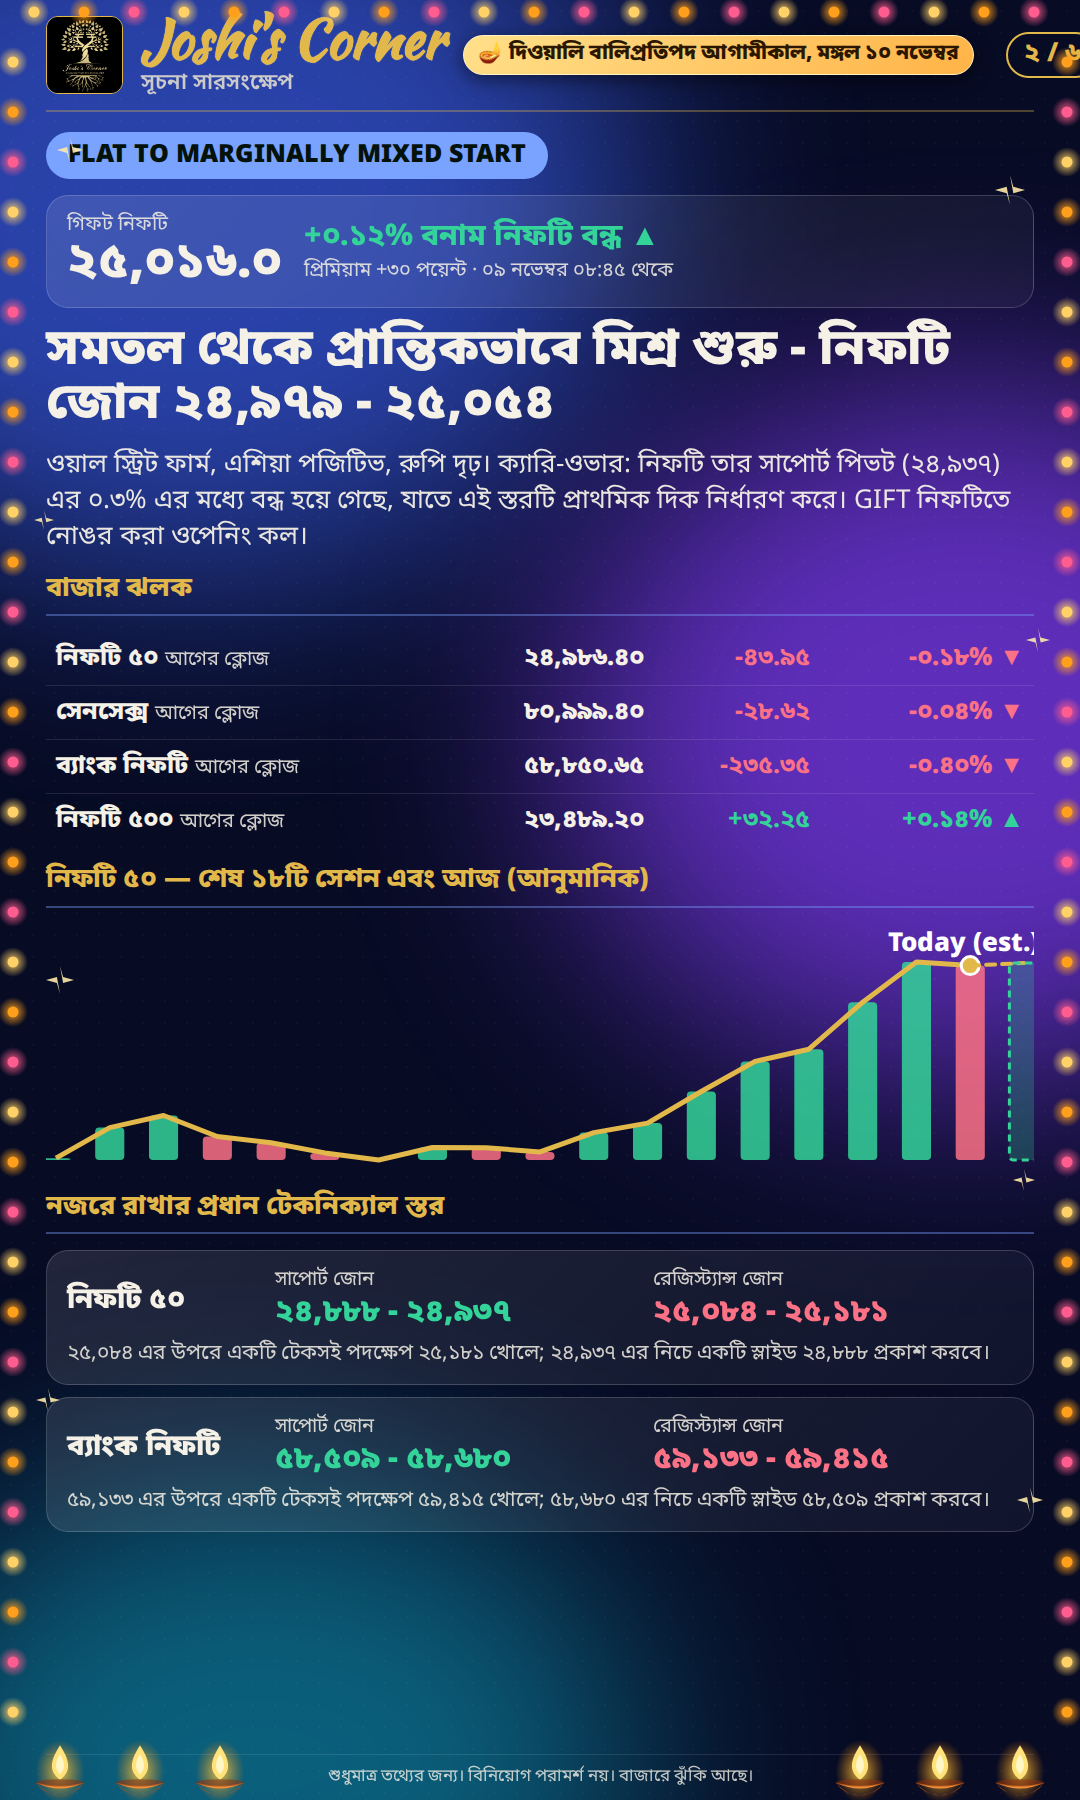
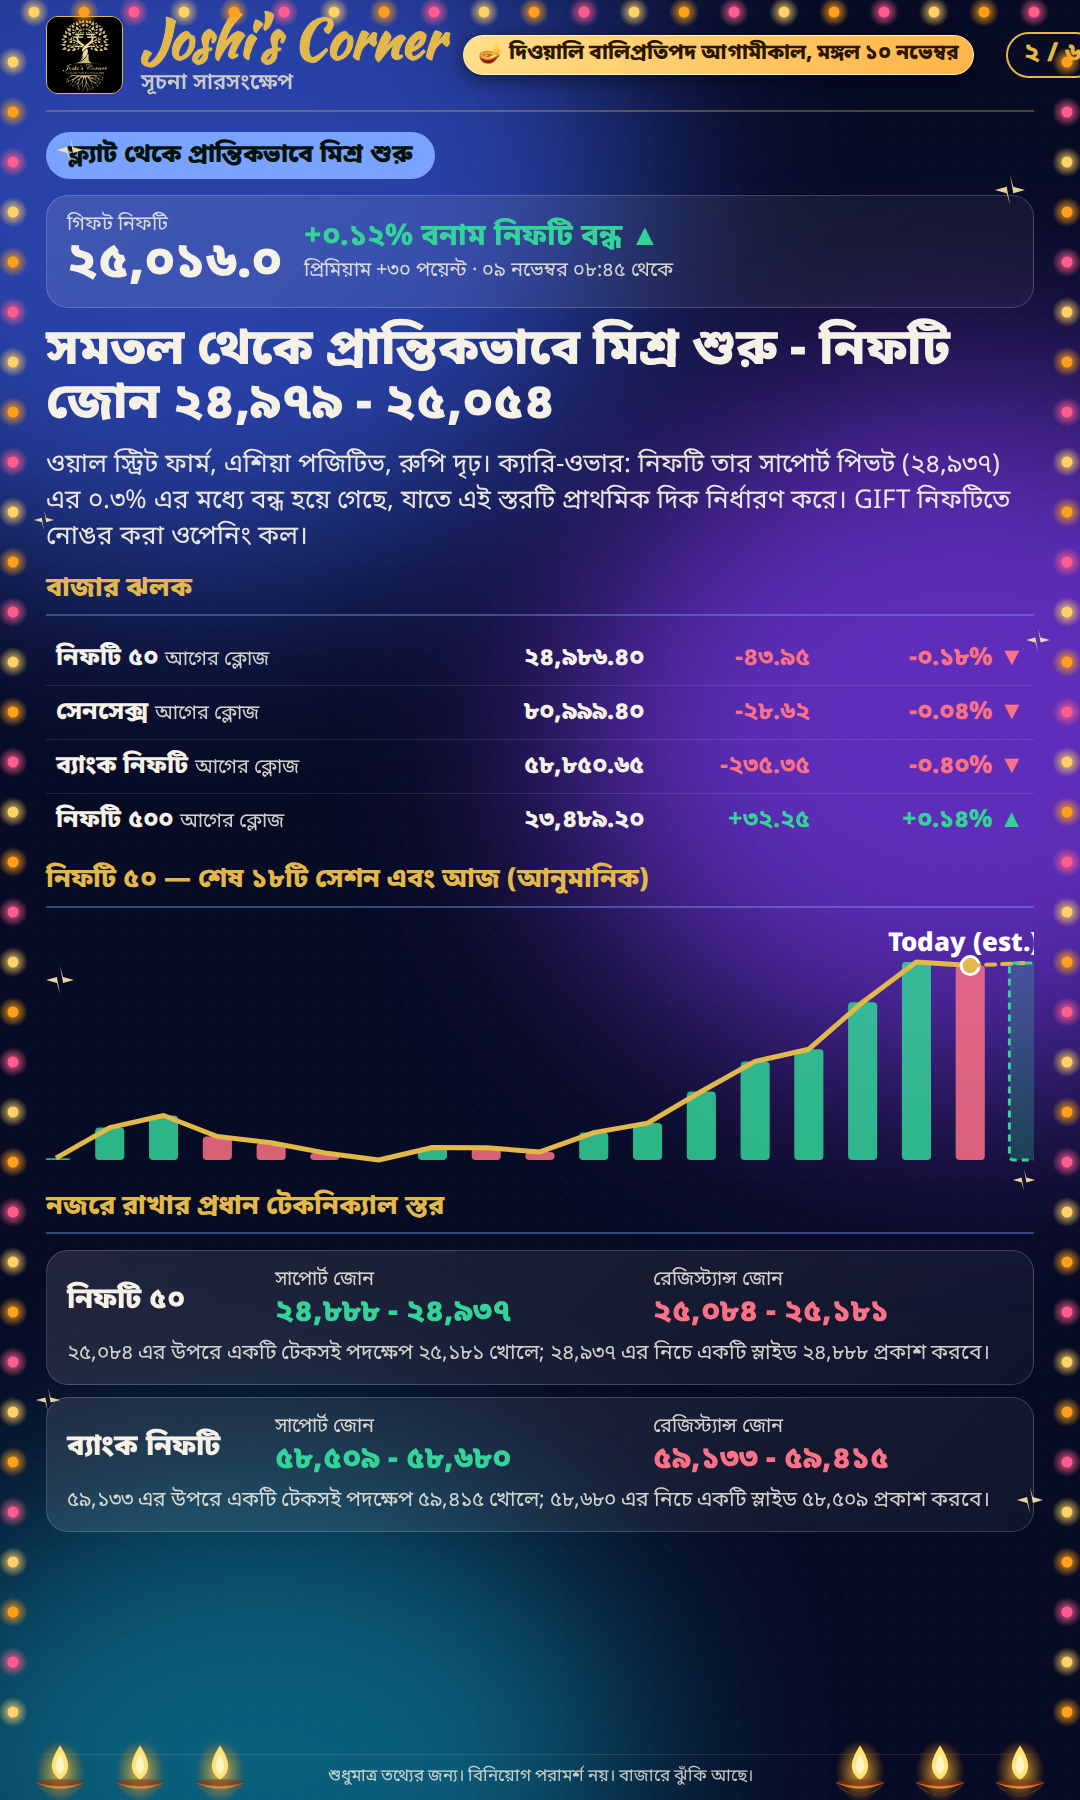
backfill: Hindi/Bengali editions

Changed region(s): [[0.0611, 0.0622, 0.5194, 0.1244]]

diff --git a/morning/2026-11-09/index.html b/morning/2026-11-09/index.html
@@ -41,7 +41,7 @@ html,body{height:100%;background:radial-gradient(120% 90% at 50% 0%,#2a2140 0%,#
 <div class="top"><span class="b">Joshi's Corner</span><span class="lg"><button data-l="en">English</button><button data-l="hi">हिन्दी</button><button data-l="bn">বাংলা</button></span></div>
 <div class="stage"><div class="book" id="book"><div class="spine"></div><div class="leaf"><img src="../../reports/morning-pulse/JCGG_Morning_Pulse_Mobile_2026-11-09_1.png" alt="Page 1" loading="eager"><div class="back"></div><div class="shade"></div></div><div class="leaf"><img src="../../reports/morning-pulse/JCGG_Morning_Pulse_Mobile_2026-11-09_2.png" alt="Page 2" loading="eager"><div class="back"></div><div class="shade"></div></div><div class="leaf"><img src="../../reports/morning-pulse/JCGG_Morning_Pulse_Mobile_2026-11-09_3.png" alt="Page 3" loading="eager"><div class="back"></div><div class="shade"></div></div><div class="leaf"><img src="../../reports/morning-pulse/JCGG_Morning_Pulse_Mobile_2026-11-09_4.png" alt="Page 4" loading="eager"><div class="back"></div><div class="shade"></div></div><div class="leaf"><img src="../../reports/morning-pulse/JCGG_Morning_Pulse_Mobile_2026-11-09_5.png" alt="Page 5" loading="eager"><div class="back"></div><div class="shade"></div></div><div class="leaf"><img src="../../reports/morning-pulse/JCGG_Morning_Pulse_Mobile_2026-11-09_6.png" alt="Page 6" loading="eager"><div class="back"></div><div class="shade"></div></div></div></div>
 <div class="hint" id="hint">Tap the page to turn it</div>
-<div class="stat"><div class="old" id="old"></div><span id="gen">Report generated <b>Mon 09 Nov 2026, 08:57 AM IST</b></span></div>
+<div class="stat"><div class="old" id="old"></div><span id="gen">Report generated <b>Mon 09 Nov 2026, 09:13 AM IST</b></span></div>
 <div class="bar"><button class="g" id="prev" aria-label="Previous page">&#8249;</button><div class="dots" id="dots"></div><button id="next" aria-label="Next page">Next page &#8250;</button><button class="g" id="share">Share</button></div>
 <script>(function(){
 var LP={"en": ["../../reports/morning-pulse/JCGG_Morning_Pulse_Mobile_2026-11-09_1.png", "../../reports/morning-pulse/JCGG_Morning_Pulse_Mobile_2026-11-09_2.png", "../../reports/morning-pulse/JCGG_Morning_Pulse_Mobile_2026-11-09_3.png", "../../reports/morning-pulse/JCGG_Morning_Pulse_Mobile_2026-11-09_4.png", "../../reports/morning-pulse/JCGG_Morning_Pulse_Mobile_2026-11-09_5.png", "../../reports/morning-pulse/JCGG_Morning_Pulse_Mobile_2026-11-09_6.png"], "hi": ["../../reports/morning-pulse/JCGG_Morning_Pulse_Mobile_HI_2026-11-09_1.png", "../../reports/morning-pulse/JCGG_Morning_Pulse_Mobile_HI_2026-11-09_2.png", "../../reports/morning-pulse/JCGG_Morning_Pulse_Mobile_HI_2026-11-09_3.png", "../../reports/morning-pulse/JCGG_Morning_Pulse_Mobile_HI_2026-11-09_4.png", "../../reports/morning-pulse/JCGG_Morning_Pulse_Mobile_HI_2026-11-09_5.png", "../../reports/morning-pulse/JCGG_Morning_Pulse_Mobile_HI_2026-11-09_6.png"], "bn": ["../../reports/morning-pulse/JCGG_Morning_Pulse_Mobile_BN_2026-11-09_1.png", "../../reports/morning-pulse/JCGG_Morning_Pulse_Mobile_BN_2026-11-09_2.png", "../../reports/morning-pulse/JCGG_Morning_Pulse_Mobile_BN_2026-11-09_3.png", "../../reports/morning-pulse/JCGG_Morning_Pulse_Mobile_BN_2026-11-09_4.png", "../../reports/morning-pulse/JCGG_Morning_Pulse_Mobile_BN_2026-11-09_5.png", "../../reports/morning-pulse/JCGG_Morning_Pulse_Mobile_BN_2026-11-09_6.png"]},DEF=document.documentElement.lang||'en',cur='en';
@@ -82,7 +82,7 @@ document.addEventListener('keydown',function(e){if(e.key==='ArrowRight'||e.key==
 var sx=null;document.addEventListener('touchstart',function(e){sx=e.touches[0].clientX},{passive:true});
 document.addEventListener('touchend',function(e){if(sx===null)return;var dx=e.changedTouches[0].clientX-sx;if(Math.abs(dx)>45)go(dx<0?1:-1);sx=null},{passive:true});
 document.getElementById('share').onclick=function(){var d={title:"Joshi's Corner - Morning Sunrise for Monday, 09 November 2026",text:"Joshi's Corner - Morning Sunrise for Monday, 09 November 2026",url:location.href};if(navigator.share){navigator.share(d).catch(function(){})}else if(navigator.clipboard){navigator.clipboard.writeText(location.href);this.textContent='Link copied'}};
-(function(){var RD='2026-11-09',KIND='morning',ADM='',GEN='Mon 09 Nov 2026, 08:57 AM IST';
+(function(){var RD='2026-11-09',KIND='morning',ADM='',GEN='Mon 09 Nov 2026, 09:13 AM IST';
  var n=new Date(Date.now()+19800000),mm=n.getUTCHours()*60+n.getUTCMinutes(),dow=n.getUTCDay(),due=KIND==='evening'?16*60+40:8*60+55;
  function iso(d){return d.toISOString().slice(0,10)}
  var e=new Date(n.getTime());if(dow>=1&&dow<=5&&mm>=due){}else{do{e=new Date(e.getTime()-86400000)}while(e.getUTCDay()===0||e.getUTCDay()===6)}

diff --git a/morning/index.html b/morning/index.html
@@ -41,7 +41,7 @@ html,body{height:100%;background:radial-gradient(120% 90% at 50% 0%,#2a2140 0%,#
 <div class="top"><span class="b">Joshi's Corner</span><span class="lg"><button data-l="en">English</button><button data-l="hi">हिन्दी</button><button data-l="bn">বাংলা</button></span></div>
 <div class="stage"><div class="book" id="book"><div class="spine"></div><div class="leaf"><img src="../reports/morning-pulse/JCGG_Morning_Pulse_Mobile_2026-11-09_1.png" alt="Page 1" loading="eager"><div class="back"></div><div class="shade"></div></div><div class="leaf"><img src="../reports/morning-pulse/JCGG_Morning_Pulse_Mobile_2026-11-09_2.png" alt="Page 2" loading="eager"><div class="back"></div><div class="shade"></div></div><div class="leaf"><img src="../reports/morning-pulse/JCGG_Morning_Pulse_Mobile_2026-11-09_3.png" alt="Page 3" loading="eager"><div class="back"></div><div class="shade"></div></div><div class="leaf"><img src="../reports/morning-pulse/JCGG_Morning_Pulse_Mobile_2026-11-09_4.png" alt="Page 4" loading="eager"><div class="back"></div><div class="shade"></div></div><div class="leaf"><img src="../reports/morning-pulse/JCGG_Morning_Pulse_Mobile_2026-11-09_5.png" alt="Page 5" loading="eager"><div class="back"></div><div class="shade"></div></div><div class="leaf"><img src="../reports/morning-pulse/JCGG_Morning_Pulse_Mobile_2026-11-09_6.png" alt="Page 6" loading="eager"><div class="back"></div><div class="shade"></div></div></div></div>
 <div class="hint" id="hint">Tap the page to turn it</div>
-<div class="stat"><div class="old" id="old"></div><span id="gen">Report generated <b>Mon 09 Nov 2026, 08:57 AM IST</b></span></div>
+<div class="stat"><div class="old" id="old"></div><span id="gen">Report generated <b>Mon 09 Nov 2026, 09:13 AM IST</b></span></div>
 <div class="bar"><button class="g" id="prev" aria-label="Previous page">&#8249;</button><div class="dots" id="dots"></div><button id="next" aria-label="Next page">Next page &#8250;</button><button class="g" id="share">Share</button></div>
 <script>(function(){
 var LP={"en": ["../reports/morning-pulse/JCGG_Morning_Pulse_Mobile_2026-11-09_1.png", "../reports/morning-pulse/JCGG_Morning_Pulse_Mobile_2026-11-09_2.png", "../reports/morning-pulse/JCGG_Morning_Pulse_Mobile_2026-11-09_3.png", "../reports/morning-pulse/JCGG_Morning_Pulse_Mobile_2026-11-09_4.png", "../reports/morning-pulse/JCGG_Morning_Pulse_Mobile_2026-11-09_5.png", "../reports/morning-pulse/JCGG_Morning_Pulse_Mobile_2026-11-09_6.png"], "hi": ["../reports/morning-pulse/JCGG_Morning_Pulse_Mobile_HI_2026-11-09_1.png", "../reports/morning-pulse/JCGG_Morning_Pulse_Mobile_HI_2026-11-09_2.png", "../reports/morning-pulse/JCGG_Morning_Pulse_Mobile_HI_2026-11-09_3.png", "../reports/morning-pulse/JCGG_Morning_Pulse_Mobile_HI_2026-11-09_4.png", "../reports/morning-pulse/JCGG_Morning_Pulse_Mobile_HI_2026-11-09_5.png", "../reports/morning-pulse/JCGG_Morning_Pulse_Mobile_HI_2026-11-09_6.png"], "bn": ["../reports/morning-pulse/JCGG_Morning_Pulse_Mobile_BN_2026-11-09_1.png", "../reports/morning-pulse/JCGG_Morning_Pulse_Mobile_BN_2026-11-09_2.png", "../reports/morning-pulse/JCGG_Morning_Pulse_Mobile_BN_2026-11-09_3.png", "../reports/morning-pulse/JCGG_Morning_Pulse_Mobile_BN_2026-11-09_4.png", "../reports/morning-pulse/JCGG_Morning_Pulse_Mobile_BN_2026-11-09_5.png", "../reports/morning-pulse/JCGG_Morning_Pulse_Mobile_BN_2026-11-09_6.png"]},DEF=document.documentElement.lang||'en',cur='en';
@@ -82,7 +82,7 @@ document.addEventListener('keydown',function(e){if(e.key==='ArrowRight'||e.key==
 var sx=null;document.addEventListener('touchstart',function(e){sx=e.touches[0].clientX},{passive:true});
 document.addEventListener('touchend',function(e){if(sx===null)return;var dx=e.changedTouches[0].clientX-sx;if(Math.abs(dx)>45)go(dx<0?1:-1);sx=null},{passive:true});
 document.getElementById('share').onclick=function(){var d={title:"Joshi's Corner - Morning Sunrise for Monday, 09 November 2026",text:"Joshi's Corner - Morning Sunrise for Monday, 09 November 2026",url:location.href};if(navigator.share){navigator.share(d).catch(function(){})}else if(navigator.clipboard){navigator.clipboard.writeText(location.href);this.textContent='Link copied'}};
-(function(){var RD='2026-11-09',KIND='morning',ADM='',GEN='Mon 09 Nov 2026, 08:57 AM IST';
+(function(){var RD='2026-11-09',KIND='morning',ADM='',GEN='Mon 09 Nov 2026, 09:13 AM IST';
  var n=new Date(Date.now()+19800000),mm=n.getUTCHours()*60+n.getUTCMinutes(),dow=n.getUTCDay(),due=KIND==='evening'?16*60+40:8*60+55;
  function iso(d){return d.toISOString().slice(0,10)}
  var e=new Date(n.getTime());if(dow>=1&&dow<=5&&mm>=due){}else{do{e=new Date(e.getTime()-86400000)}while(e.getUTCDay()===0||e.getUTCDay()===6)}

diff --git a/updates/index.html b/updates/index.html
@@ -25,4 +25,4 @@ https://ssjs1mu.github.io/jc-stock-analyst/muhurat/
 Published: Sun 8 Nov, 12:19 PM IST
 
 All reports in one place: https://tinyurl.com/JoshisCorner-Reports</div><div class="act"><a class="wa" href="https://wa.me/?text=Joshi%27s%20Corner%20-%20daily%20reports%20%28Mon-Fri%2C%20NSE%20trading%20days%29%0A%0A%F0%9F%8C%85%20Morning%20Sunrise%20-%20ready%20by%208%3A45%20AM%20IST%20on%20every%20trading%20day%0Ahttps%3A//ssjs1mu.github.io/jc-stock-analyst/morning/%0ALatest%3A%20Mon%209%20Nov%2C%208%3A57%20AM%20IST%0A%0A%F0%9F%8C%87%20Evening%20Breeze%20-%20ready%20by%204%3A30%20PM%20IST%20on%20every%20trading%20day%0Ahttps%3A//ssjs1mu.github.io/jc-stock-analyst/evening/%0ALatest%3A%20Fri%206%20Nov%2C%206%3A10%20PM%20IST%0A%0A%F0%9F%AA%94%20Muhurat%20Trading%202026%20%28special%29%20-%20special%20edition%2C%20English%20/%20Hindi%20/%20Bengali%0Ahttps%3A//ssjs1mu.github.io/jc-stock-analyst/muhurat/%0APublished%3A%20Sun%208%20Nov%2C%2012%3A19%20PM%20IST%0A%0AAll%20reports%20in%20one%20place%3A%20https%3A//tinyurl.com/JoshisCorner-Reports" target="_blank" rel="noopener">Share on WhatsApp</a><button class="cp" onclick="navigator.clipboard.writeText(document.getElementById('msg').innerText).then(function(){this.textContent='Copied'}.bind(this))">Copy message</button></div>
-<p class="sub" style="margin-top:18px;font-size:12.5px">Updated Mon 9 Nov, 8:57 AM IST. Not investment advice.</p></div></body></html>
+<p class="sub" style="margin-top:18px;font-size:12.5px">Updated Mon 9 Nov, 9:13 AM IST. Not investment advice.</p></div></body></html>
